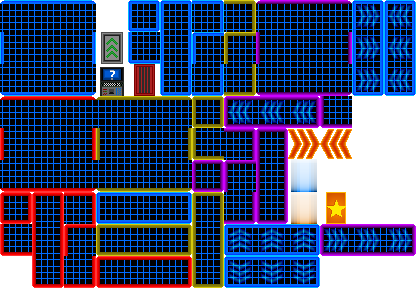
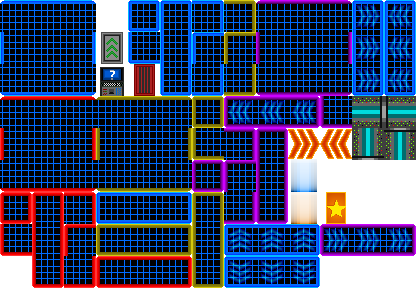
Continued Work on lasers

Changed region(s): [[0.8438, 0.3125, 1.0, 0.5625]]

diff --git a/Game/components/player.py b/Game/components/player.py
@@ -845,16 +845,27 @@ class Player(pygame.sprite.Sprite):
         secondpass = [laser for laser in collision if laser.active]
         for block in secondpass:
             if game.glitches["laserresistant"]:
-                # FIXME: Screen trembles when on lasers
-                # FIXME: Need to make vertical lasers work like walls
-                if self.y_speed * game.gravity >= 0:
-                    if game.gravity == 1 and self.rect.bottom > block.rect.top:
-                        self.rect.bottom = block.rect.top
-                        self.status["resting"] = True  # Allows jump
-                    elif game.gravity == -1 and\
-                            self.rect.top < block.rect.bottom:
-                        self.rect.top = block.rect.bottom
-                        self.status["resting"] = True  # Allows jump
+                if block.vertical:
+                    if self.x_speed > 0 and self.rect.right > block.rect.left:
+                        self.rect.right = block.rect.left
+                        self.x_speed = 0
+                        self.status["pushing"] = True
+                    elif self.x_speed < 0 and self.rect.left < block.rect.right:
+                        self.rect.left = block.rect.right
+                        self.x_speed = 0
+                        self.status["pushing"] = True
+                else:
+                    # FIXME: Screen trembles when on lasers
+                    if self.y_speed * game.gravity >= 0:
+                        if game.gravity == 1 and self.rect.bottom > block.rect.top:
+                            self.rect.bottom = block.rect.top
+                            self.y_speed = 0
+                            self.status["resting"] = True  # Allows jump
+                        elif game.gravity == -1 and\
+                                self.rect.top < block.rect.bottom:
+                            self.rect.top = block.rect.bottom
+                            self.y_speed = 0
+                            self.status["resting"] = True  # Allows jump
             else:
                 self.respawn(game)
         # MUST BE LAST OPERATION

diff --git a/Game/components/laser.py b/Game/components/laser.py
@@ -16,6 +16,7 @@ class Laser(pygame.sprite.Sprite):
         self.rect.x, self.rect.y = location
         self.id = number
         self.time = 0.
+        self.vertical = vertical
         self.triggertime = time
         self.active = time == 0
         self.update = self.update_timed
